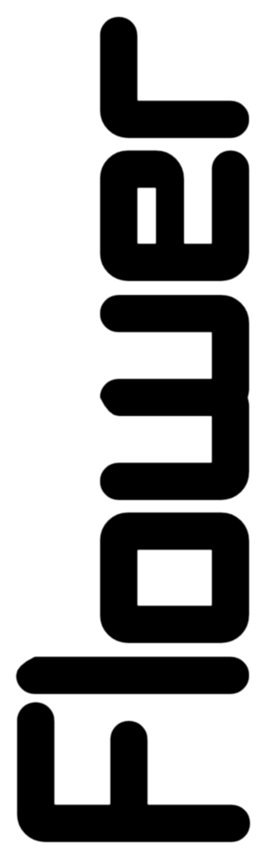
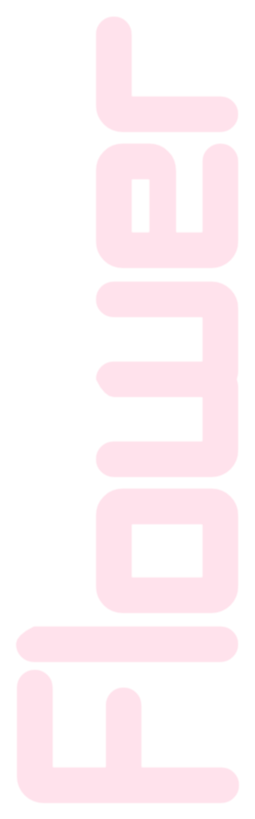
Added transparent flower in header

diff --git a/style.css b/style.css
@@ -56,6 +56,9 @@ nav a {
 header {
     padding: 40px 170px 0px 250px;
     background: rgba(229, 84, 115, 0.10);
+    background-image: url('/images/flower.png');
+    background-repeat: no-repeat;
+    background-position: left;
 }
 
 .banner {
